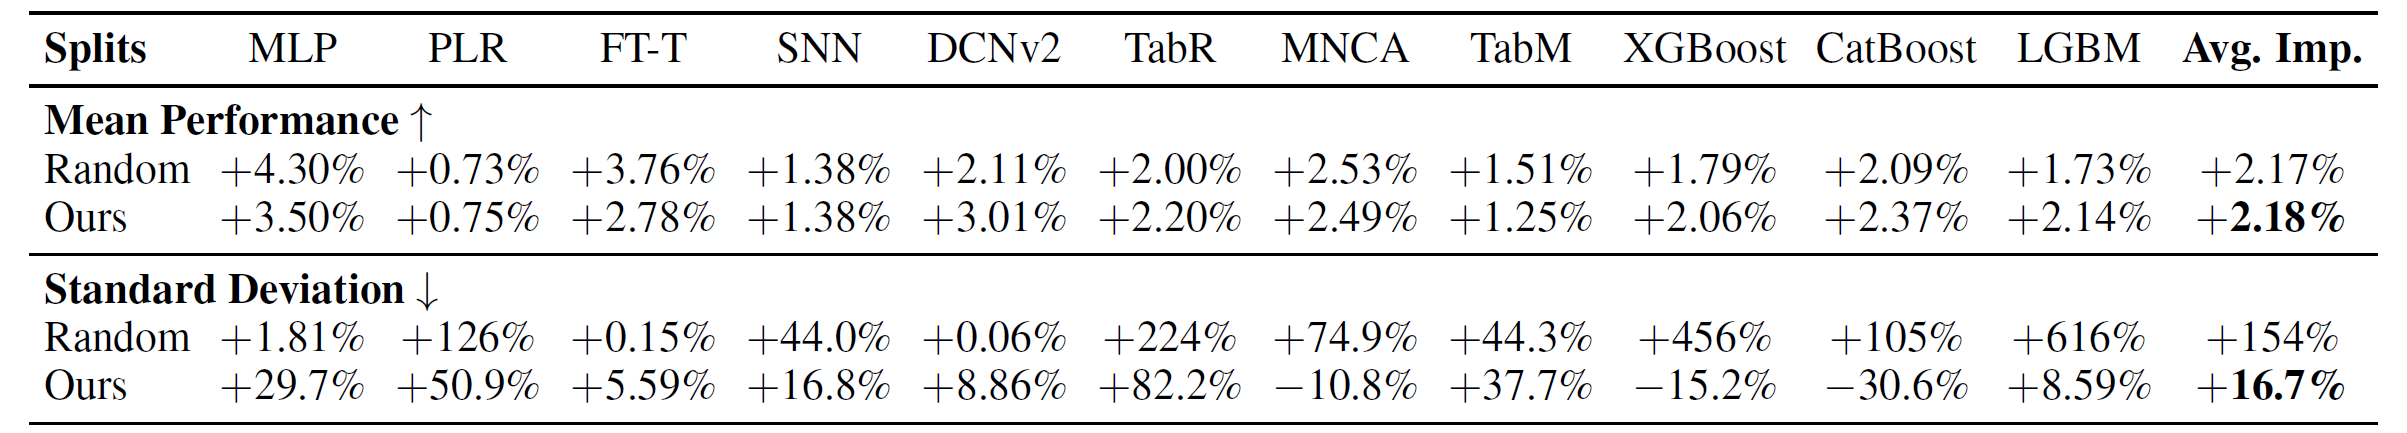
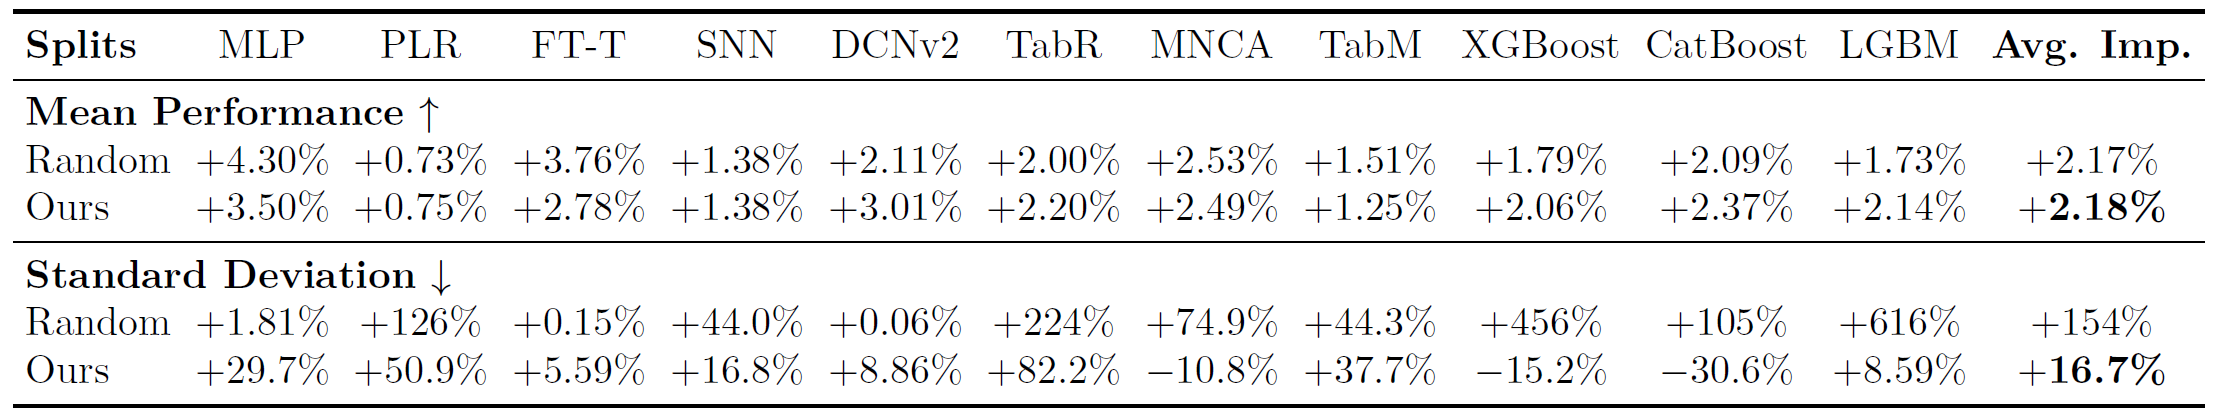
update table and readme

diff --git a/README.md b/README.md
@@ -25,14 +25,15 @@ Performance rankings of **original temporal split** in [1], **random split**, an
 
 Comparison of performance and stability between the **random split** and **our proposed temporal split**, measured by the **average percentage change** on the TabReD benchmark, along with the performance ranking of each method. "PLR," "MNCA," and "LGBM" denote "MLP-PLR," "ModernNCA," and "LightGBM," respectively. The percentage change represents the difference in the mean (higher is better) or the standard deviation (lower is better, indicating stability) of performance, relative to the baseline temporal split in [1], for each method. The results show that our temporal splitting strategy achieves performance comparable to the random split, while offering significantly better stability.
 
-### TabPFN v2 & Mambular
-
-
-
 ### How to perform temporal embedding
 
-(plug and play or backbone)
+![tab3](fig/tab3.png)
 
+### TabPFN v2 & Mambular
+
+![tab4](fig/tab4.png)
+
+---
 
 [1] Rubachev, I., Kartashev, N., Gorishniy, Y., and Babenko, A. Tabred: A benchmark of tabular machine learning in-the-wild. In ICLR, 2025.
 
